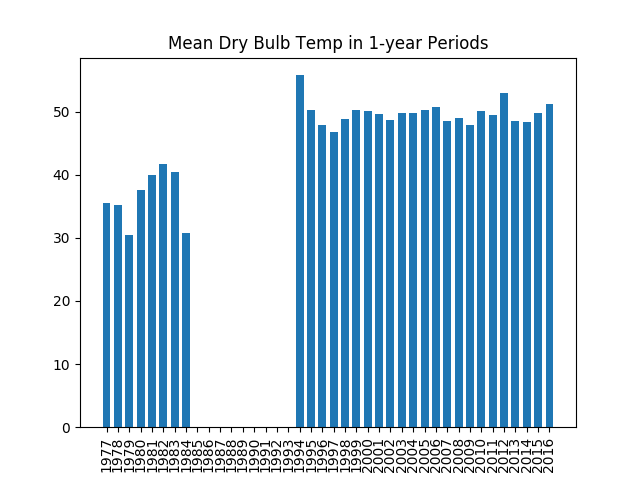
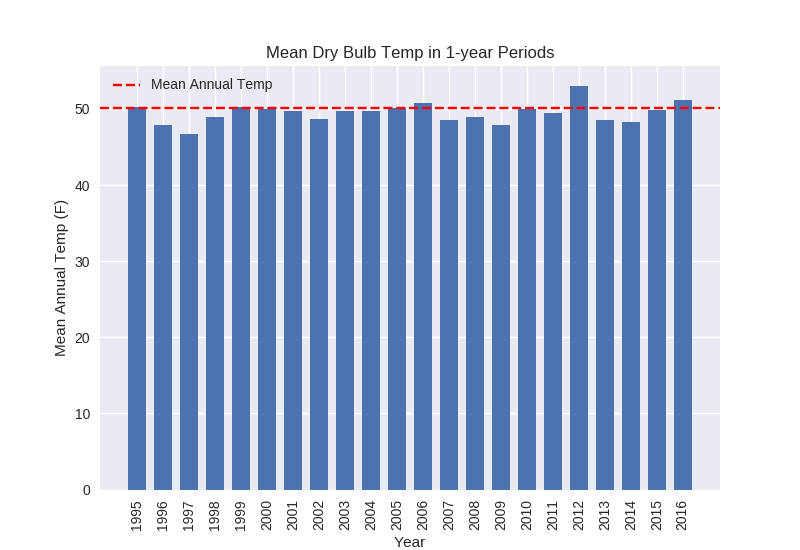
updating graphs with known means

diff --git a/eda.py b/eda.py
@@ -35,20 +35,24 @@ def lin_reg(X, y):
     print('Score: {}'.format(lr.score(X_test, y_test)))
     return X_test, y_test, lr
 
-def plot_means(df, col, name, file_name):
+def plot_means(df, col, mean, label, name, file_name):
     plt.close()
-    dates = np.arange(1977, 2018)
+    dates = np.arange(1995, 2018)
     data = [df[(df['date'] < '{}-01-01'.format(dates[idx + 1])) & \
                (df['date'] >= '{}-01-01'.format(dates[idx]))][col] \
-               for idx in range(0, 40)]
+               for idx in range(0, 22)]
     heights = [dat.mean() for dat in data]
-    x = np.arange(40)
+    x = np.arange(22)
     plt.bar(x, heights, .7)
+    plt.axhline(mean, x[0], x[-1], c='r', ls='dashed', label='Mean Annual Temp')
     plt.xticks(x, dates[:-1].astype(str), rotation='vertical')
+    plt.ylabel(label)
+    plt.xlabel('Year')
+    plt.legend()
     plt.title('Mean {} in 1-year Periods'.format(name))
     plt.savefig('mean_{}.png'.format(file_name))
 
-def plot_sums(df, col, name, file_name):
+def plot_sums(df, col, mean, label, name, file_name):
     plt.close()
     dates = np.arange(1996, 2018)
     data = [df[(df['date'] < '{}-01-01'.format(dates[idx + 1])) & \
@@ -57,7 +61,11 @@ def plot_sums(df, col, name, file_name):
     heights = [dat.sum() for dat in data]
     x = np.arange(21)
     plt.bar(x, heights, .7)
+    plt.axhline(mean, x[0], x[-1], c='r', ls='dashed', label='Mean Annual Precip')
     plt.xticks(x, dates[:-1].astype(str), rotation='vertical')
+    plt.ylabel(label)
+    plt.xlabel('Year')
+    plt.legend()
     plt.title('Total {} in 1-year Periods'.format(name))
     plt.savefig('total_{}.png'.format(file_name))
 
@@ -82,5 +90,7 @@ if __name__ == '__main__':
     # plot_departure(climate_df, 'date', 'monthly_dept_from_normal_average_temp',\
     #                'Monthly Departure from Avg Temp over Time', 'mo_temp_dep_lr')
 
-    plot_means(df, 'hourly_dry_bulb_temp_f', 'Dry Bulb Temp', 'dbt')
-    # plot_sums(df, 'hourly_precip', 'precipitation', 'precip')
+    plot_means(df, 'hourly_dry_bulb_temp_f', 50.15, 'Mean Annual Temp (F)',\
+               'Dry Bulb Temp', 'dbt')
+    # plot_sums(df, 'hourly_precip', 15.54, 'Total Precip (in)', \
+    #           'precipitation', 'precip')
